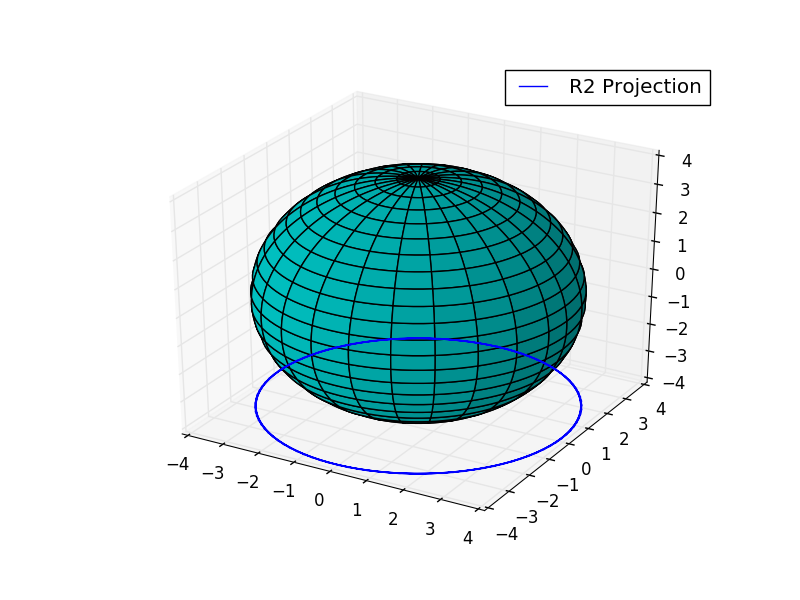
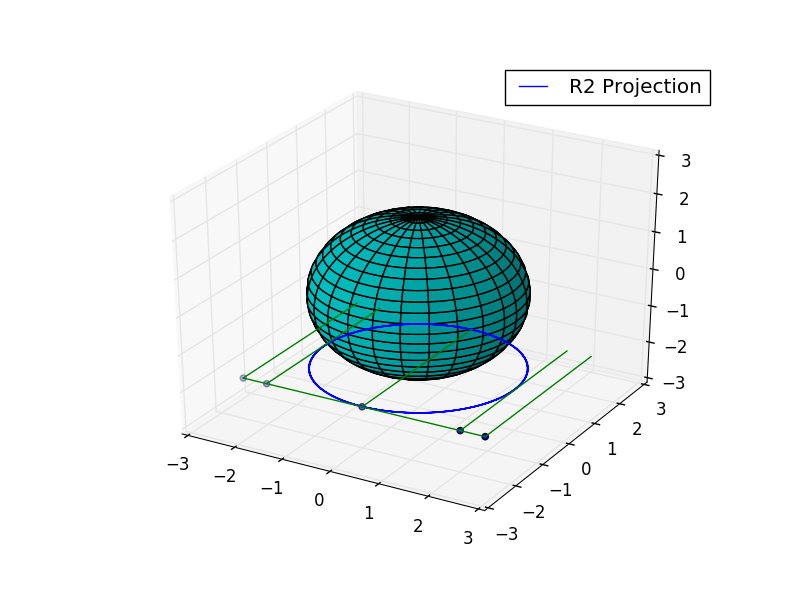
better sphere

diff --git a/sphereplot.py b/sphereplot.py
@@ -10,23 +10,66 @@ ax = fig.add_subplot(111, projection='3d')
 u = np.linspace(0, 2 * np.pi, 100)
 v = np.linspace(0, np.pi, 100)
 
-x = 4 * np.outer(np.cos(u), np.sin(v))
-y = 4 * np.outer(np.sin(u), np.sin(v))
-z = 4 * np.outer(np.ones(np.size(u)), np.cos(v))
+x = 2 * np.outer(np.cos(u), np.sin(v))
+y = 2 * np.outer(np.sin(u), np.sin(v))
+z = 2 * np.outer(np.ones(np.size(u)), np.cos(v))
 ax.plot_surface(x, y, z, rstride=4, cstride=4, color='c')
 
-#plt.show()
-
-#mpl.rcParams['legend.fontsize'] = 10
-
-#fig = plt.figure()
 ax = fig.gca(projection='3d')
 theta = np.linspace(-4 * np.pi, 4 * np.pi, 100)
-z = np.linspace(-4, -4, 100)
-r = 4
+z = -2
+r = 2
 x = r * np.sin(theta)
 y = r * np.cos(theta)
 ax.plot(x, y, z, label='R2 Projection')
 ax.legend()
+
+# rallita vertical 1
+x = np.linspace(-2.5, -2.5, 100)
+y = np.linspace(-2, 2, 100)
+z = -2
+ax.plot(x, y, z, color='g')
+
+# rallita vertical 2
+x = np.linspace(-2, -2, 100)
+y = np.linspace(-2, 2, 100)
+z = -2
+ax.plot(x, y, z, color='g')
+
+# rallita vertical 3
+x = np.linspace(0, 0, 100)
+y = np.linspace(-2, 2, 100)
+z = -2
+ax.plot(x, y, z, color='g')
+
+# rallita vertical 4
+x = np.linspace(2, 2, 100)
+y = np.linspace(-2, 2, 100)
+z = -2
+ax.plot(x, y, z, label='R Projection', color='g')
+
+# rallita vertical 2
+x = np.linspace(2.5, 2.5, 100)
+y = np.linspace(-2, 2, 100)
+z = -2
+ax.plot(x, y, z, color='g')
+
+
+
+# rallita horizontal
+y = np.linspace(-2, -2, 100)
+x = np.linspace(-2.5, 2.5, 100)
+z = -2
+ax.plot(x, y, z, color='g')
+
+
+ys = [-2, -2, -2, -2, -2]
+xs = [-2.5, -2, 0, 2, 2.5]
+zs = [-2, -2, -2, -2, -2]
+ax.scatter(xs, ys, zs, label='R Projection')
+
+plt.show()
+
+
 
 plt.show()
